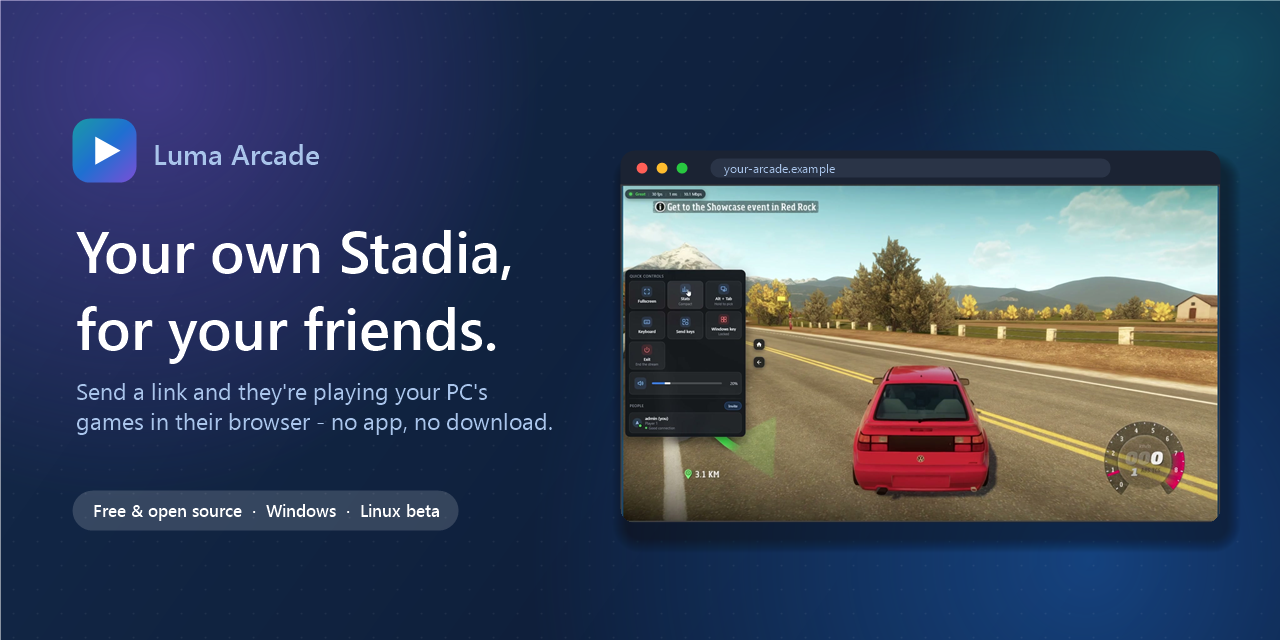
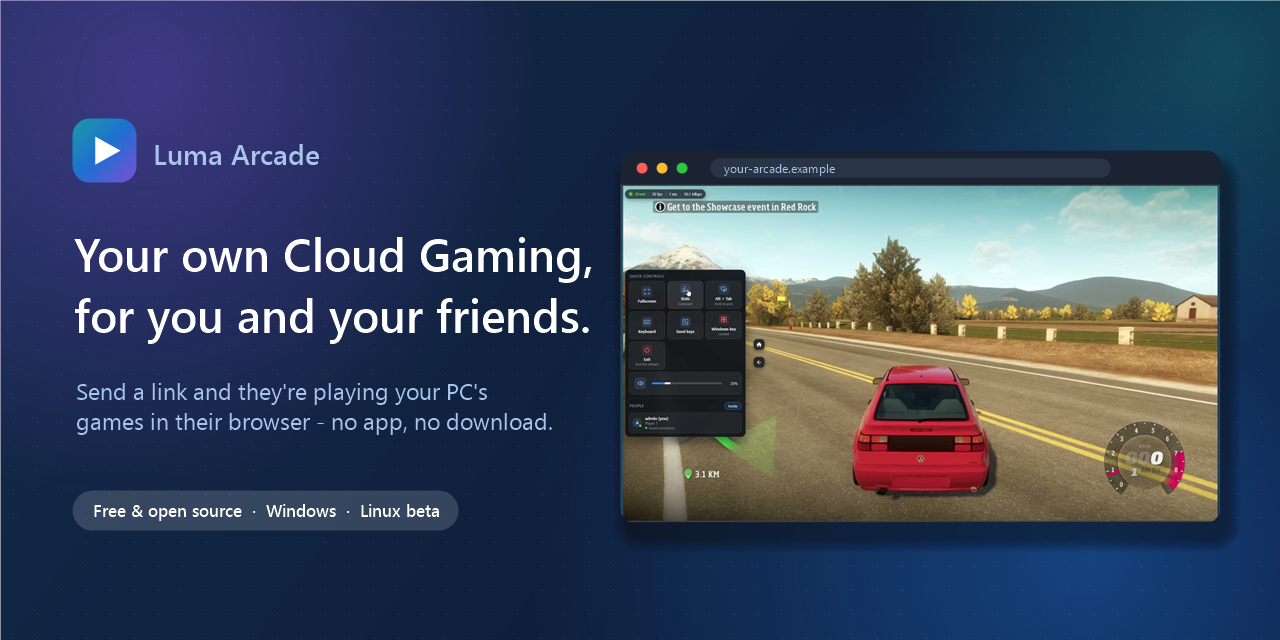
Slogan: Your own Cloud Gaming, for you and your friends.

Changed region(s): [[0.0625, 0.4688, 0.4688, 0.5625], [0.0625, 0.3438, 0.4688, 0.4375]]

diff --git a/README.md b/README.md
@@ -2,7 +2,7 @@
 
 # Luma Arcade
 
-### Your own Stadia, for your friends.
+### Your own Cloud Gaming, for you and your friends.
 
 **Send a link, and seconds later they're playing your PC's games in their browser.**<br>
 No app to install, no account needed - like a Jackbox room code, but for any game on your PC.
